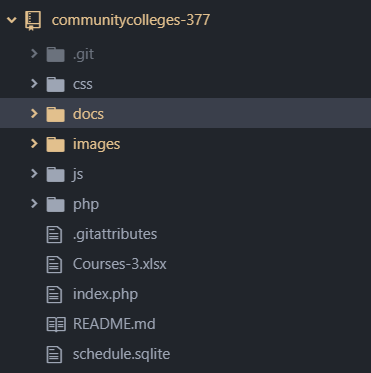
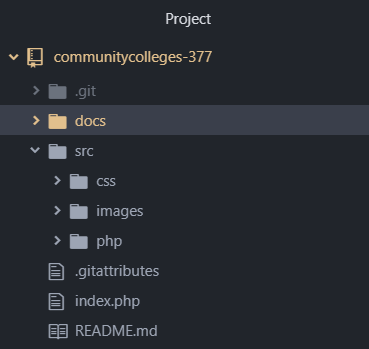
Finishing the developer manual

Changed region(s): [[0.0, 0.1146, 1.0, 0.8883], [0.0, 0.0287, 0.5664, 0.086], [0.1192, 0.9169, 0.477, 0.9742]]

diff --git a/docs/developer_manual.md b/docs/developer_manual.md
@@ -3,25 +3,46 @@
 
 ### File Structure
 
-![](/images/developer_manual/file_structure.png)
+![File Structure](/src/images/developer_manual/file_structure.png)
 
-This is the file structure for the project as it is now. The "docs" folder contains the user and developer manuals. The main code for the app is located within the "src" folder, which contains the "images", "php", and "css" folder. The "images" folder contains all of the images used are every file. The HTML and CSS for the landing page is contained in the "index.php" file and the "css" folder. The "php" folder handles the search function and produces the results page.
+This is the file structure for the project as it is now. The "docs" folder
+contains the user and developer manuals. The main code for the app is located
+within the "src" folder, which contains the "images", "php", and "css" folder.
+The "images" folder contains all of the images used are every file. The HTML and
+CSS for the landing page is contained in the "index.php" file and the "css"
+folder. The "php" folder handles the search function and produces the results page.
 
 ### Manuals
 
-If you make any changes to the project, check to make sure that the information in the developer and user manuals are still correct. If they are not correct then make the appropriate changes to make them correct.
+If you make any changes to the project, check to make sure that the information
+in the developer and user manuals are still correct. If they are not correct
+then make the appropriate changes to make them correct.
 
 ### Images
 
-If you add any images to the project put them into the "images" folder and make sure that they put into the appropriate sub-folder.  
+If you add any images to the project put them into the "images" folder and make
+sure that they put into the appropriate sub-folder.  
 
 ###  HTML/CSS
 
-If you want to add more filters or change the options for the current filters. You have to edit the "index.php" file in the root. We use Bootstrap CSS to style the webpage. There is some CSS done in the file inside the "css" folder. However we do use some of the div classes that is provided with Bootstrap in the "index.php" file, that is mainly done in-line.
+If you want to add more filters or change the options for the current filters.
+You have to edit the "index.php" file in the root. We use Bootstrap CSS to style
+the webpage. There is some CSS done in the "default.css" file inside the "css"
+folder. However we do use some of the div classes that is provided with
+Bootstrap in the "index.php" file, that is mainly done in-line.
+
+If you wish to make changes to the results page then you have to edit the
+"results.css" file located in the "css" folder and the "results.php" file in the
+"php" folder. The "results.php" file contains the code the structures how the
+results will appear in a table format with the columns "ID", "Title", "College",
+"Term", "Start Term", "End Term", "UMD Equivalent", and "Credits". The
+"results.css" file is the stylesheet that determines how the table and webpage
+will look.
 
 ### Database
 
-We use SQLite and JQuery to create, maintain, and query the database.
-
-
-### PHP
+We use SQLite and JQuery to create, maintain, and query the database. If you add
+anything to the database please be sure to update the "schedule.sqlite" file in
+the "php" folder. If you do add another filter be sure to update the
+"SQL_query.php" file to reflect the changes you have made so that the search
+function still works as designed.

diff --git a/docs/user_manual.md b/docs/user_manual.md
@@ -16,19 +16,19 @@ This is the search filter that you will use to find the classes you want. It has
 
 ### Class or Class ID
 
-![](/src/images/user_manual/Course.png)
+![Course](/src/images/user_manual/Course.png)
 
-<<<<<<< HEAD
 This is the Class or Class ID filter. It has no default value. The input type
 is text. If you know the Class ID of the class you want to take, like "math140"
 or "INST", then you can input that into the spot designated by the arrow and
 hit search. If not then you can input the type of class you want, like
 "Biology", and it will display all classes that are Biology related. This is
-the only required item as the other two have their default values set to "any".
+not required. If you wish to search for all available courses that are
+transferable then just leave the text box blank and hit search.
 
 ### Semester
 
-![](/src/images/user_manual/semester.png)
+![Semester](/src/images/user_manual/semester.png)
 
 This is the Semester filter. It's default value is "any" so it will give you
 results from all the semesters available. The input type is a drop down menu.
@@ -37,13 +37,13 @@ any to search for all semesters.
 
 ### College
 
-![](/src/images/user_manual/college.png)
+![College](/src/images/user_manual/college.png)
 
 This is the College filter. It's default value is "any" so it will give results
 from all the colleges available. The input type is a drop down menu. All you
 have to do is select the desired college from the drop down menu or leave it as
 any to search for all colleges.
 
-You can set specific values for all of these filters or almost any combination
-of the three. As long as you have the Class or Class ID input filled out
-appropriately.
+You can set specific values for all of these filters or any combination
+of the three. If you are not getting results then please check that you have
+the correct format for the Class or Class ID text box.
